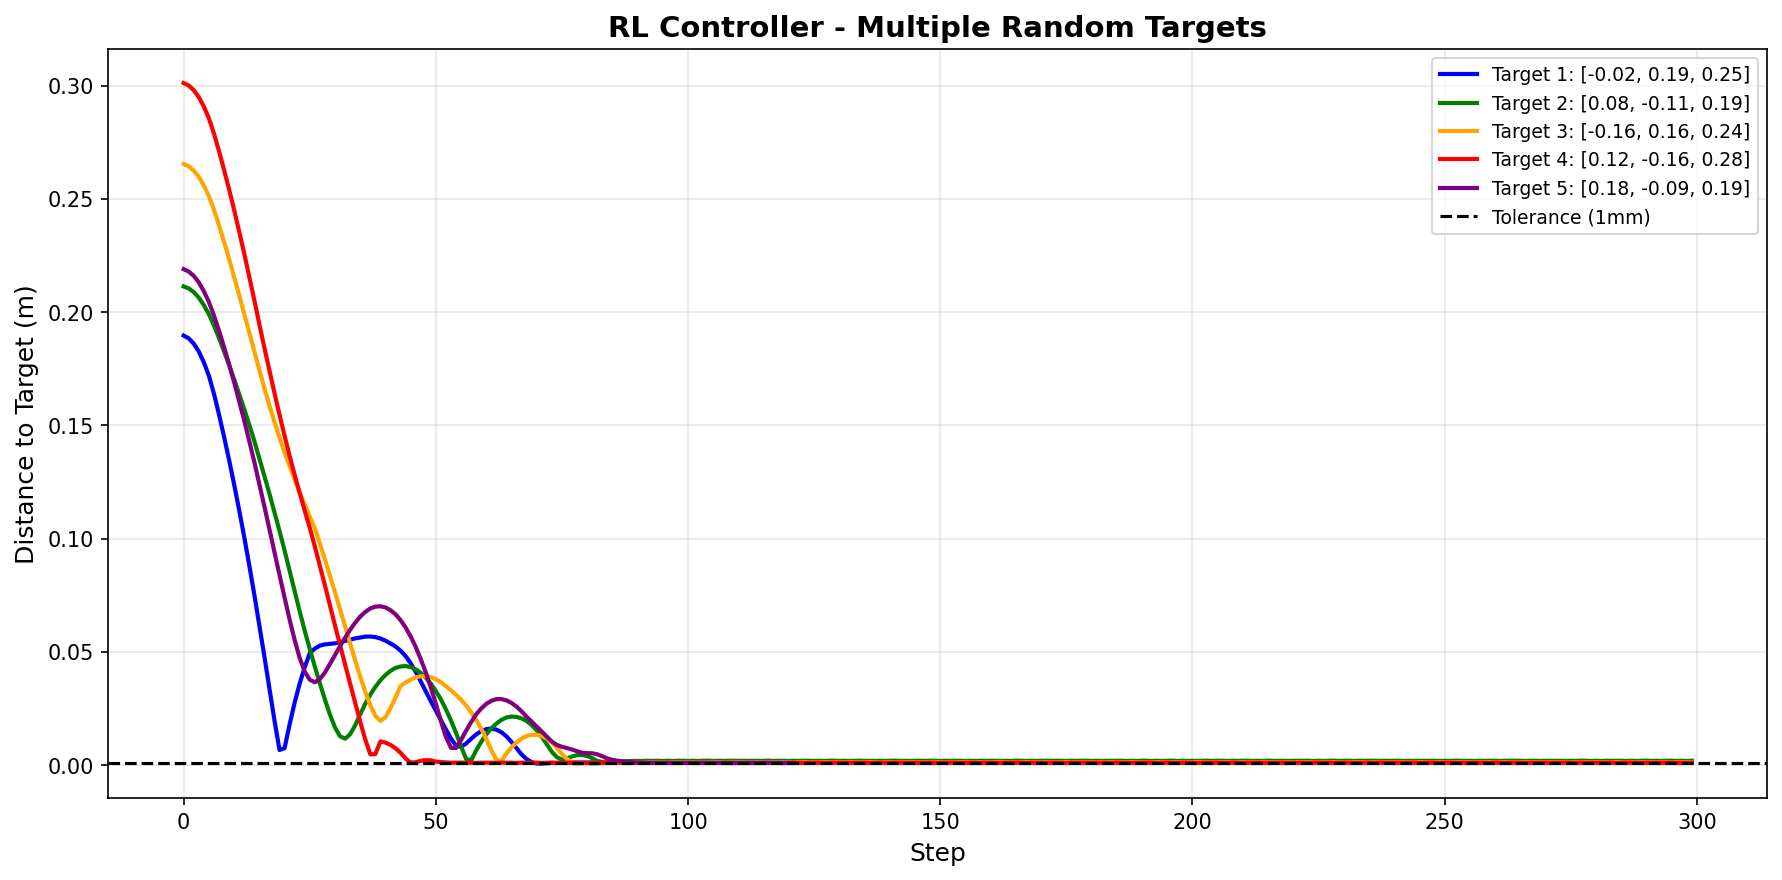
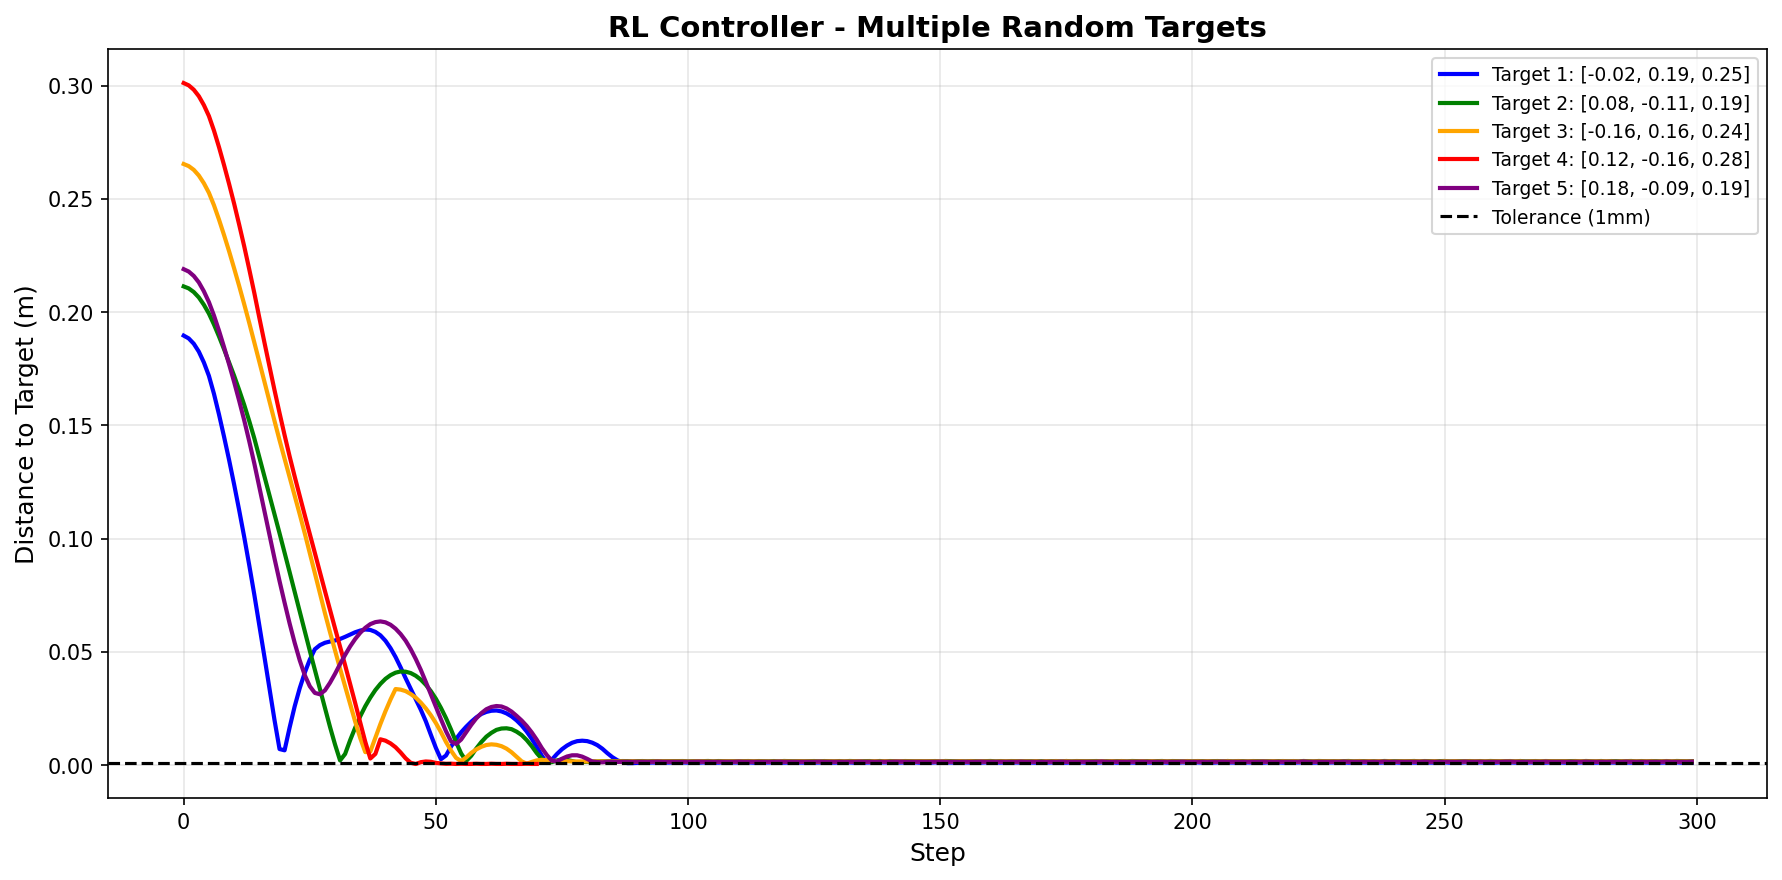
multiple targets test

Changed region(s): [[0.1543, 0.5216, 0.9568, 0.8898], [0.1235, 0.2455, 0.1543, 0.4602]]

diff --git a/test_rl_multiple_targets.py b/test_rl_multiple_targets.py
@@ -32,36 +32,36 @@ def move_to_target_rl(sim, model, target_pos, max_steps=300, tolerance=0.001):
         steps: Number of steps taken
         success: True if reached target
     """
-    # Reset simulation and get starting position
+    # Resetting simulation and getting starting position
     state = sim.reset(num_agents=1)
     robot_id = list(state.keys())[0]
     current_pos = np.array(state[robot_id]["pipette_position"], dtype=np.float32)
     
-    # Normalize target
+    # Normalize target: Converting target to numpy array and normalize it to [-1, 1] range. (RL model was trained with normalized positions, so we must normalize here too).
     goal_position = np.array(target_pos, dtype=np.float32)
     goal_normalized = normalize_position(goal_position)
     
     distances = []
-    settle_count = 0  # Track settling (like PID)
+    settle_count = 0  # To track settling 
     
     for step in range(max_steps):
-        # Normalize current position
+        # Normalizing current position to [-1, 1]
         current_normalized = normalize_position(current_pos)
         
-        # Build observation
+        # Building observation [current_x, current_y, current_z, goal_x, goal_y, goal_z]
         obs = np.concatenate([current_normalized, goal_normalized], dtype=np.float32)
         
-        # Get action from RL model (use deterministic=True for consistency)
+        # Getting action from RL model. Model outputs normalized action in [-1, 1] range and deterministic parameter controls if model adds exploration noise.
         action, _states = model.predict(obs, deterministic=True)
         
-        # Scale to velocity
+        # Scaling action to velocity. Model outputs [-1, 1], we convert to [-2, 2] m/s.
         velocity = scale_action_to_velocity(action)
         
         # Calculate distance
         distance = np.linalg.norm(current_pos - goal_position)
         distances.append(distance)
         
-        # Check settling (similar to PID - 20 consecutive steps within tolerance)
+        # Check settling (similar to my PID controller, 20 steps within tolerance to make sure it does not overshoot)
         if distance < tolerance:
             settle_count += 1
             if settle_count >= 20:
@@ -70,25 +70,24 @@ def move_to_target_rl(sim, model, target_pos, max_steps=300, tolerance=0.001):
         else:
             settle_count = 0
         
-        # Send velocity command
+        # Send velocity command (convert to list format)
         actions = [[float(velocity[0]), float(velocity[1]), float(velocity[2]), 0]]
         state = sim.run(actions, num_steps=1)
         
-        # Get new position
+        # Getting new position for next iteration
         robot_id = list(state.keys())[0]
         current_pos = np.array(state[robot_id]["pipette_position"], dtype=np.float32)
     
-    # Timeout
+    # If timeout
     print(f"  Max steps reached")
     return distances, max_steps, False
 
 
 # Load trained model
-print("Loading trained model...")
-model = PPO.load(r"C:\Users\USER\Documents\GitHub\Y2B25_Task_11\models\260107.1306_yuliia_lr1e-4_b128_s2048_th1mm.zip")
+model = PPO.load(r"C:\Users\USER\Documents\GitHub\Y2B25_Task_11\models\260107.1544_yuliia_lr1e-4_b128_s2048_th1mm.zip")
 print("Model loaded")
 
-# Generate 5 random targets (SAME SEED AS PID for fair comparison!)
+# Generating 5 random targets with teh same seed as PID for truthful comparison.
 np.random.seed(42)
 targets = []
 for i in range(5):
@@ -104,7 +103,7 @@ for i, target in enumerate(targets, 1):
     print(f"  Target {i}: [{target[0]:.3f}, {target[1]:.3f}, {target[2]:.3f}]")
 print()
 
-# Test each target
+# Testing each target
 all_results = []
 colors = ['blue', 'green', 'orange', 'red', 'purple']
 
@@ -122,7 +121,7 @@ for i, target in enumerate(targets, 1):
 # Close simulation
 sim.close()
 
-# Plot all trajectories (SAME FORMAT AS PID PLOT)
+# Plot all trajectories in the same format as PID plot
 plt.figure(figsize=(12, 6))
 
 for i, result in enumerate(all_results):
@@ -138,12 +137,11 @@ plt.legend(fontsize=9)
 plt.grid(True, alpha=0.3)
 plt.tight_layout()
 plt.savefig('rl_multiple_targets.png', dpi=150, bbox_inches='tight')
-print("✓ Plot saved: rl_multiple_targets.png")
+print("Plot saved: rl_multiple_targets.png")
 plt.close()
 
-# Print summary (SAME FORMAT AS PID)
+# Print summary
 print("\nSummary:")
-print("=" * 60)
 for i, result in enumerate(all_results, 1):
     status = "SUCCESS" if result['success'] else "TIMEOUT"
     final_error = result['distances'][-1]
@@ -159,4 +157,3 @@ print(f"Average steps: {avg_steps:.1f}")
 
 avg_final_error = np.mean([r['distances'][-1] for r in all_results])
 print(f"Average final error: {avg_final_error:.6f} m ({avg_final_error*1000:.3f} mm)")
-print("=" * 60)
